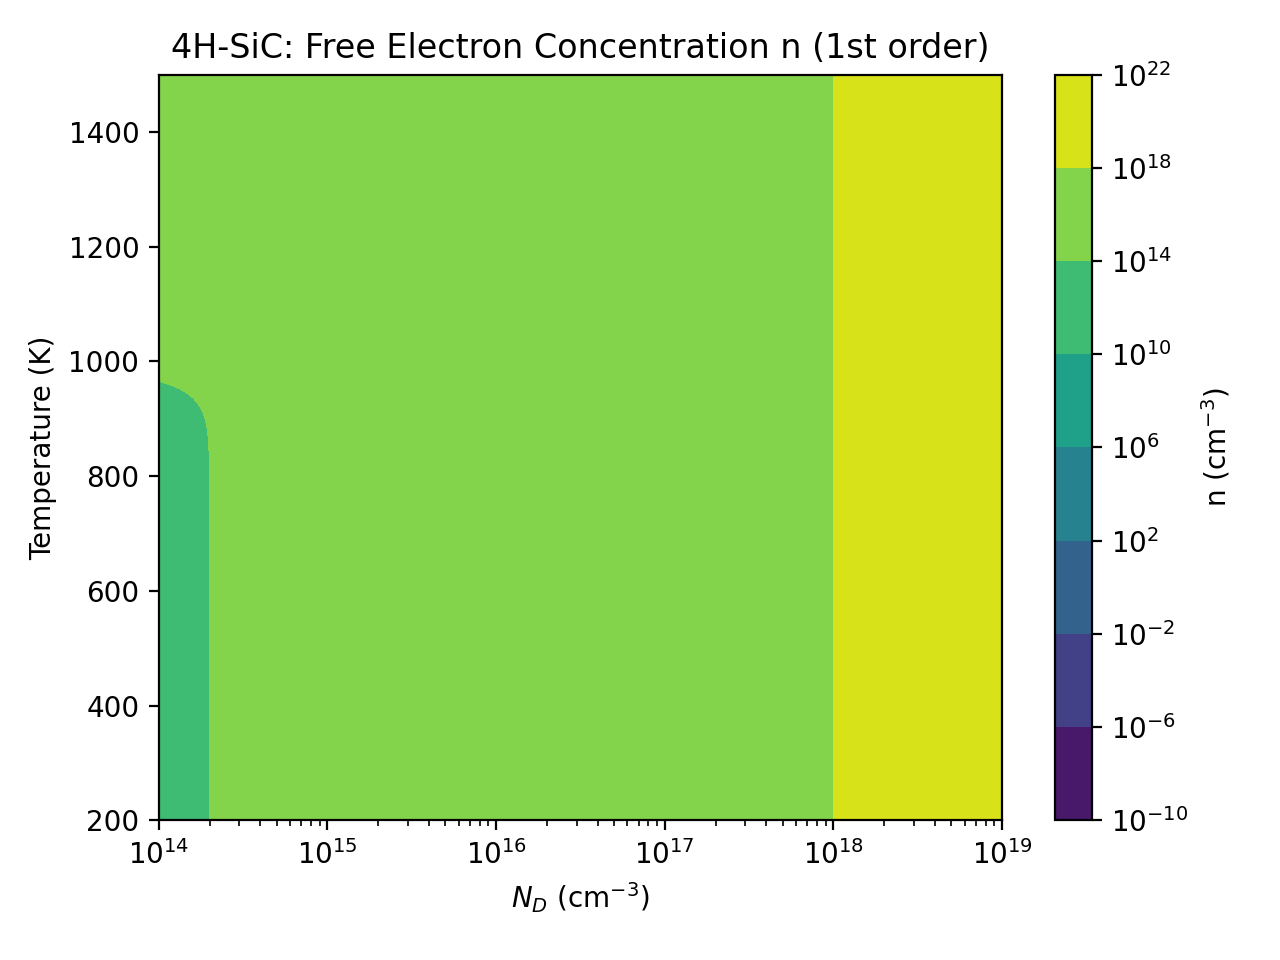
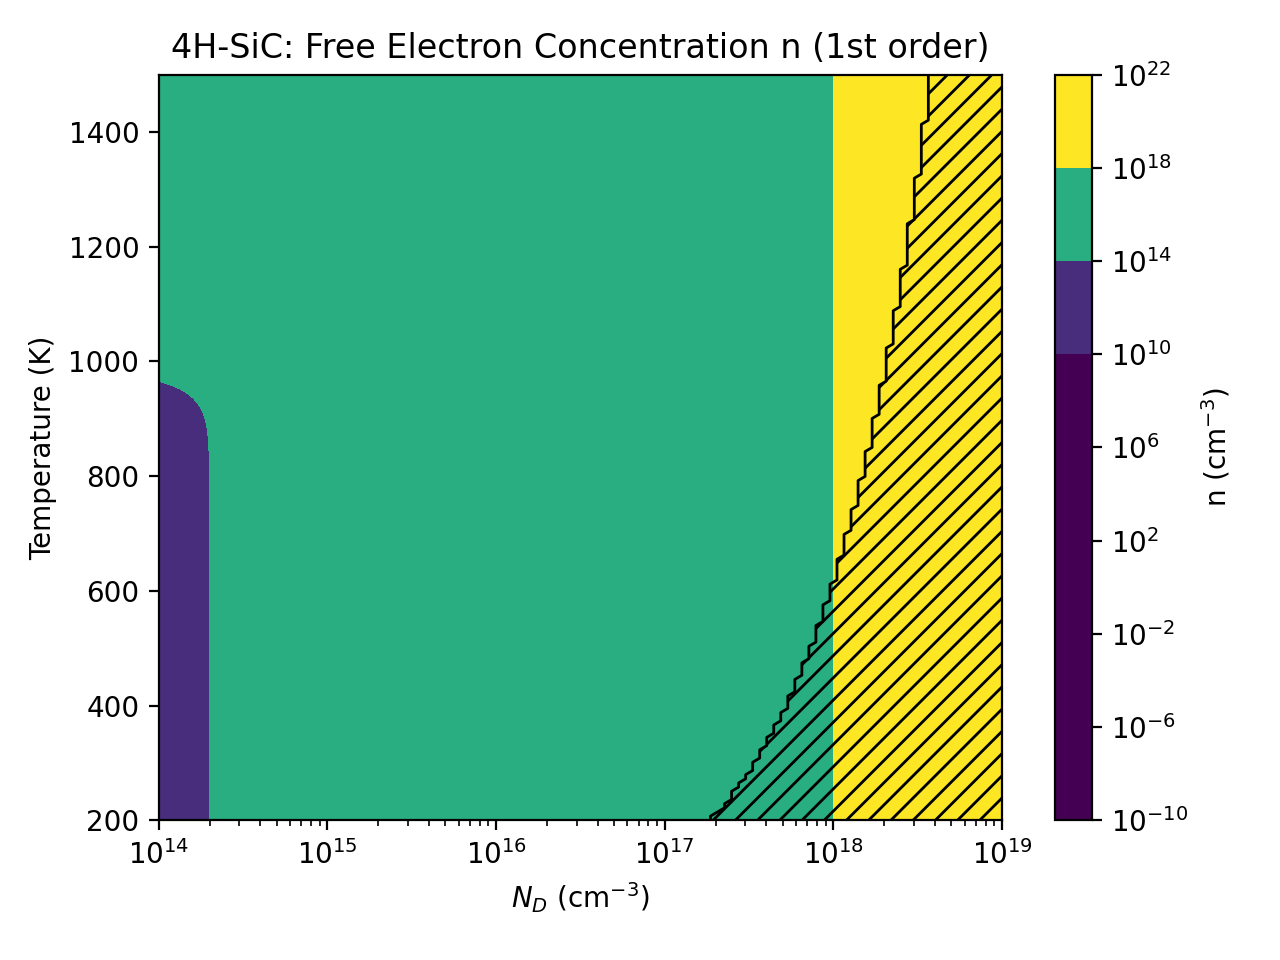
added degenerate shading, made plots easy to read

diff --git a/First_Order.py b/First_Order.py
@@ -2,8 +2,7 @@ import numpy as np
 import matplotlib.pyplot as plt
 from matplotlib.colors import LogNorm
 from dataclasses import dataclass
-import Zero_Order
-# import Zero_Order   # <- remove or keep only if you have this module
+# import Zero_Order   # <- keep commented out unless you actually have this module
 
 #need constraint if user inputs  unrealistic data
 
@@ -76,15 +75,12 @@ Si = Material0th(
     E_gap = 1.1
 )
 
-
 SiC = Material0th(
     name="4H-SiC",
     mstar_n=0.42,   # DOS electron mass / m0  (placeholder; use your class numbers if given)
     mstar_p=0.66,   # DOS hole mass / m0      (placeholder)
-    E_gap=2.2      # eV (approx at 300K)
+    E_gap=2.2      # eV (approx at 300K per slide list)
 )
-
-
 
 InAs = Material0th(
     name="InAs",
@@ -92,6 +88,7 @@ InAs = Material0th(
     mstar_p=0.41,   # DOS hole mass / m0      (placeholder)
     E_gap=0.354     # eV (approx at 300K)
 )
+
 # -------------------------
 # 1st-order equations: Free carriers (complete ionization)
 # -------------------------
@@ -143,12 +140,26 @@ def plot_n_map_vs_ND_T(mat,
 
     n, _ = free_carriers_first_order(mat, T_grid, NA_grid, ND_grid)
 
+    # Degeneracy warning per slides: n/Nc >= exp(-3) ~ EF within ~3kT of Ec
+    NcT = mat.Nc(T_grid)
+    deg_mask = (n / np.maximum(NcT, 1e-300)) >= np.exp(-3.0)
+    if np.any(deg_mask):
+        print(f"Warning [{mat.name} n-map]: region includes degenerate electrons (EF near/inside Ec). "
+              "1st-order Boltzmann may be inaccurate there.")
+
     plt.figure()
-    # Added optional log-scale color mapping for wide carrier ranges
+    # Added optional log-scale color mapping for wide carrier ranges (bounded for readability)
     if use_log_color:
-        cs = plt.contourf(ND_grid, T_grid, n, levels=30, norm=LogNorm())
+        vmin = max(np.nanmax(n) * 1e-8, 1e5)      # keep lower bound reasonable
+        vmax = max(np.nanmax(n), vmin * 1e3)      # ensure ≥3 decades of range
+        cs = plt.contourf(ND_grid, T_grid, n, levels=30, norm=LogNorm(vmin=vmin, vmax=vmax))
     else:
         cs = plt.contourf(ND_grid, T_grid, n, levels=30)
+    # --- NEW: draw degenerate region with hatching (visual cue) ---
+    plt.contour(ND_grid, T_grid, deg_mask.astype(float), levels=[0.5], colors="k", linewidths=1.0)
+    plt.contourf(ND_grid, T_grid, deg_mask.astype(float),
+                 levels=[0.5, 1.1], hatches=["///"], colors="none", alpha=0)
+
     plt.xscale("log")
     plt.xlabel(r"$N_D$ (cm$^{-3}$)")
     plt.ylabel("Temperature (K)")
@@ -171,12 +182,26 @@ def plot_p_map_vs_NA_T(mat,
 
     _, p = free_carriers_first_order(mat, T_grid, NA_grid, ND_grid)
 
+    # Degeneracy warning per slides: p/Nv >= exp(-3) ~ EF within ~3kT of Ev
+    NvT = mat.Nv(T_grid)
+    deg_mask = (p / np.maximum(NvT, 1e-300)) >= np.exp(-3.0)
+    if np.any(deg_mask):
+        print(f"Warning [{mat.name} p-map]: region includes degenerate holes (EF near/inside Ev). "
+              "1st-order Boltzmann may be inaccurate there.")
+
     plt.figure()
-    # Added optional log-scale color mapping for wide carrier ranges
+    # Added optional log-scale color mapping for wide carrier ranges (bounded for readability)
     if use_log_color:
-        cs = plt.contourf(NA_grid, T_grid, p, levels=30, norm=LogNorm())
+        vmin = max(np.nanmax(p) * 1e-8, 1e5)
+        vmax = max(np.nanmax(p), vmin * 1e3)
+        cs = plt.contourf(NA_grid, T_grid, p, levels=30, norm=LogNorm(vmin=vmin, vmax=vmax))
     else:
         cs = plt.contourf(NA_grid, T_grid, p, levels=30)
+    # --- NEW: draw degenerate region with hatching (visual cue) ---
+    plt.contour(NA_grid, T_grid, deg_mask.astype(float), levels=[0.5], colors="k", linewidths=1.0)
+    plt.contourf(NA_grid, T_grid, deg_mask.astype(float),
+                 levels=[0.5, 1.1], hatches=["///"], colors="none", alpha=0)
+
     plt.xscale("log")
     plt.xlabel(r"$N_A$ (cm$^{-3}$)")
     plt.ylabel("Temperature (K)")
